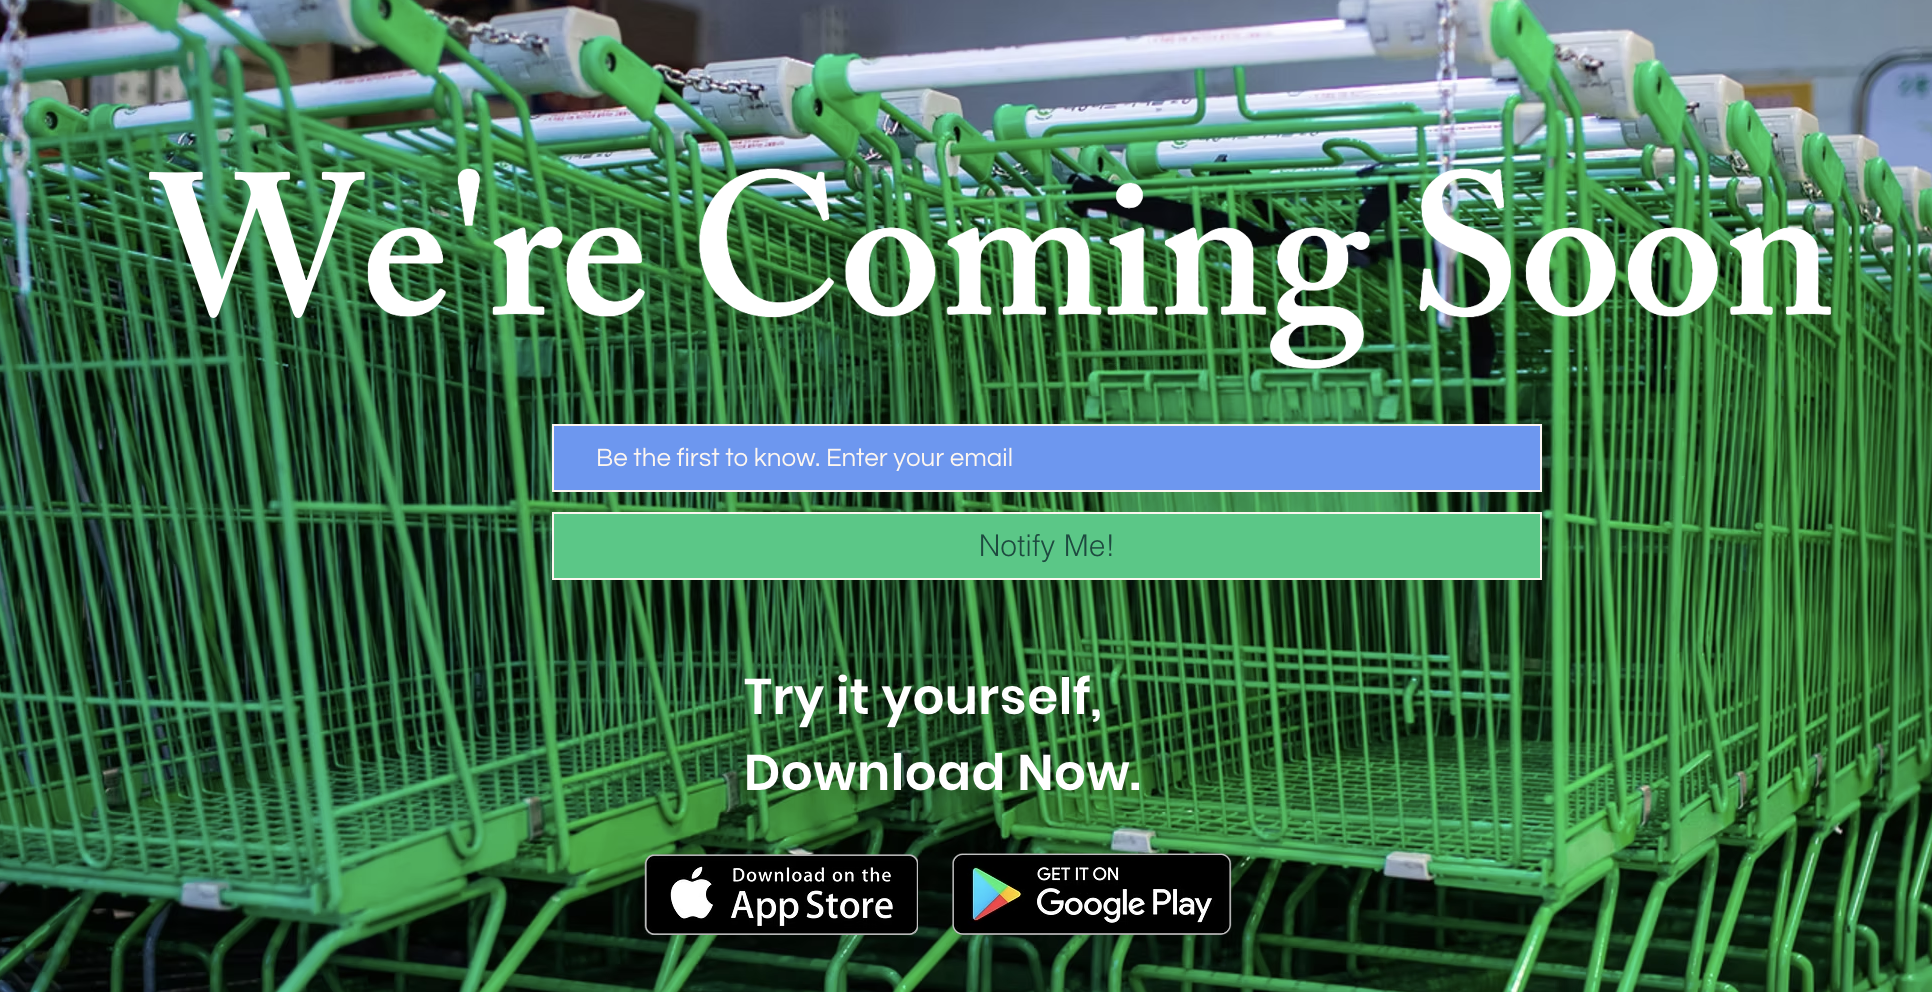
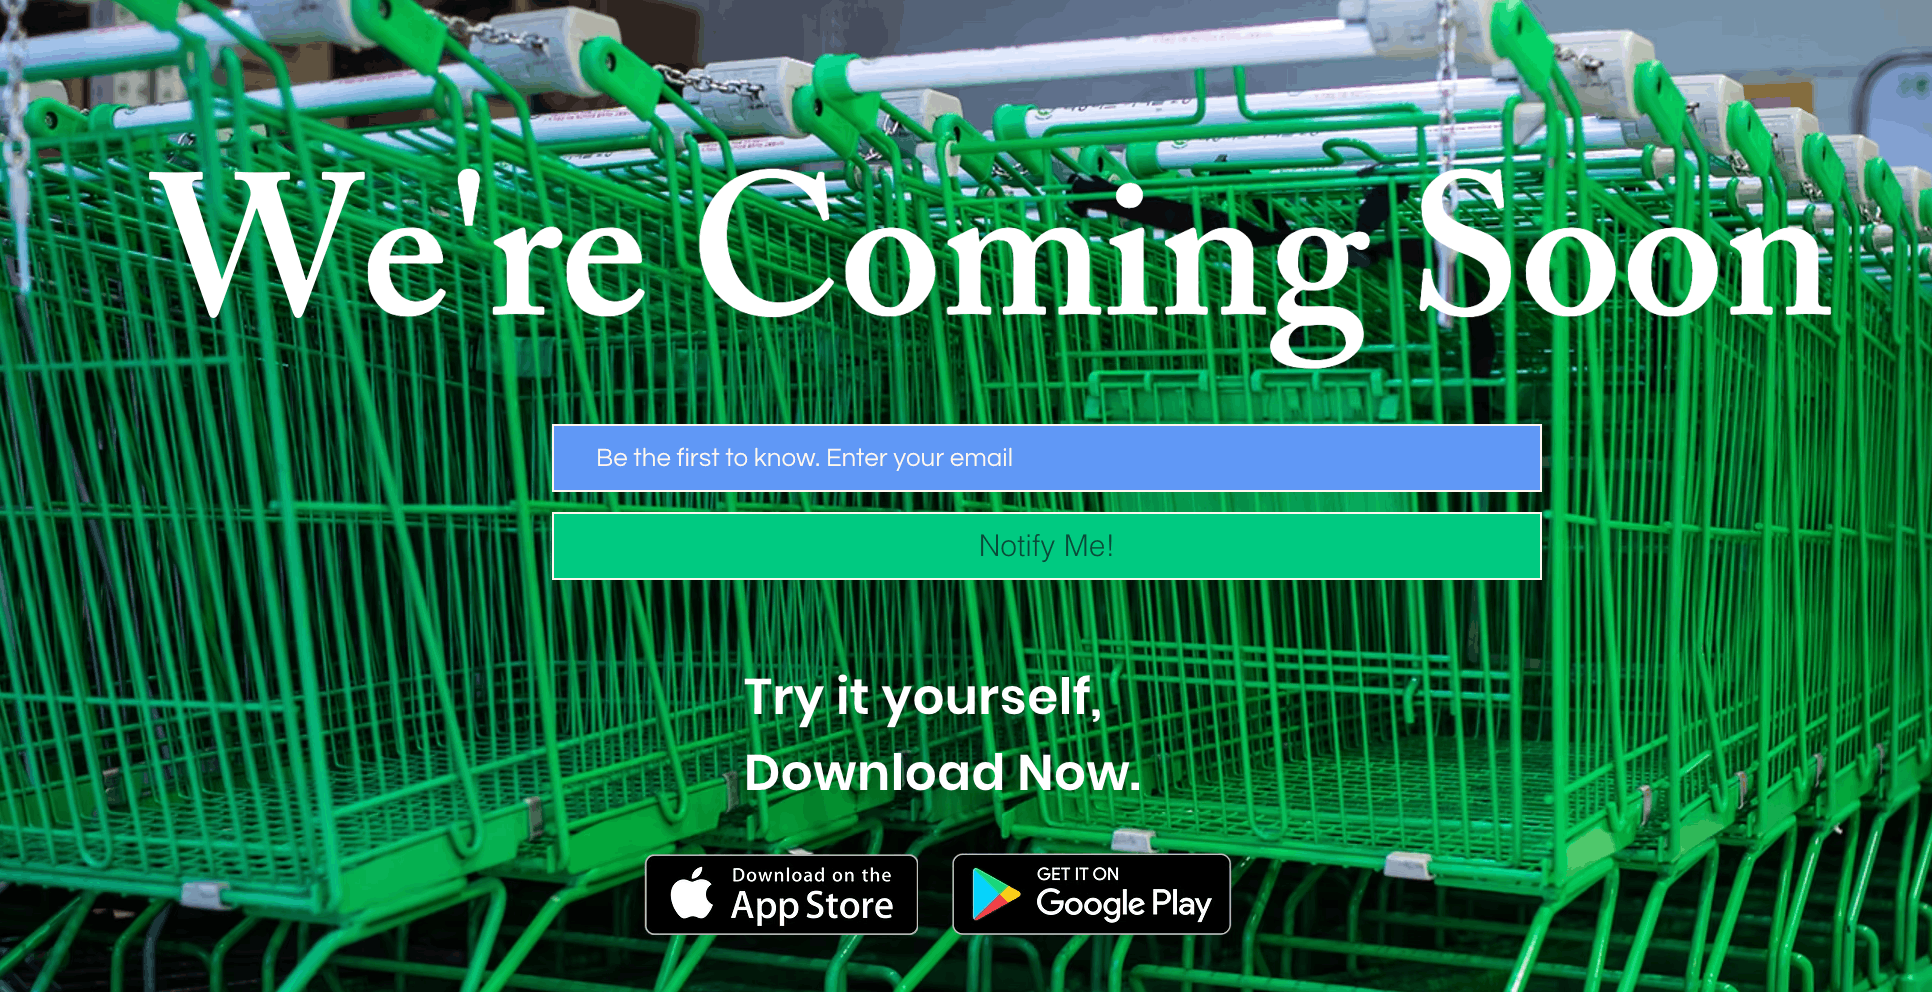
some updates, fix bugs

diff --git a/src/app/[locale]/const.ts b/src/app/[locale]/const.ts
@@ -262,6 +262,43 @@ export const projectsData = [
     },
     {
         id: "8",
+        title: "Familifood",
+        description: "Familifood.description",
+        image: "/example/images/familifood1.png",
+        aboutContent: "Familifood.info",
+        media: [
+            {
+                id: "1",
+                path: "/example/images/familifood1.png",
+            },
+            {
+                id: "2",
+                path: "/example/images/familifood2.png",
+            },
+            {
+                id: "3",
+                path: "/example/images/familifood3.png",
+            },
+            {
+                id: "4",
+                path: "/example/images/familifood4.png",
+            },
+            {
+                id: "5",
+                path: "/example/images/familifood5.png",
+            },
+            {
+                id: "6",
+                path: "/example/images/familifood6.png",
+            },
+            {
+                id: "7",
+                path: "/example/images/familifood7.png",
+            },
+        ],
+    },
+    {
+        id: "9",
         title: "Lumm",
         description: "Lumm.description",
         image: "/images/lumm.png",
@@ -274,8 +311,8 @@ export const projectsData = [
         ],
     },
     {
-        id: "9",
-        title: "Viround (mobile)",
+        id: "10",
+        title: "Viround",
         description: "Viround_m.description",
         image: "/images/viround.png",
         aboutContent: "Viround_m.info",
@@ -315,19 +352,6 @@ export const projectsData = [
             {
                 id: "9",
                 path: "/example/images/viround9.png",
-            },
-        ],
-    },
-    {
-        id: "10",
-        title: "Viround (web)",
-        description: "Viround_w.description",
-        image: "/example/images/viroundweb1.png",
-        aboutContent: "Viround_w.info",
-        media: [
-            {
-                id: "1",
-                path: "/example/images/viroundweb1.png",
             },
         ],
     },

diff --git a/src/config/site.ts b/src/config/site.ts
@@ -52,8 +52,8 @@ export const siteConfig = {
         linkedIn: "https://www.linkedin.com/in/evgeniy-chepurnoy/",
         telegram: "https://t.me/evg_9",
         mail: "mailto:lofmty@gmail.com",
-        cv: "https://drive.google.com/file/d/1Ztt6FnJIfCC3z1halzsDF1XcDWLevlQR/view?pli=1",
+        cv: "https://drive.google.com/file/d/1fU2SS593-YWc2MOKJyvlWlveAGnNjEkk/view",
         cvDownload:
-            "https://drive.usercontent.google.com/u/0/uc?id=1Ztt6FnJIfCC3z1halzsDF1XcDWLevlQR&export=download",
+            "https://drive.usercontent.google.com/download?id=1fU2SS593-YWc2MOKJyvlWlveAGnNjEkk&export=download",
     },
 }

diff --git a/src/app/[locale]/(components)/Tools.tsx b/src/app/[locale]/(components)/Tools.tsx
@@ -262,6 +262,7 @@ export const Tools = ({
                         </Code>
                         <Code color="success">react-native-uuid</Code>
                         <Code color="success">subscriptions-transport-ws</Code>
+                        <Code color="success">callstack/liquid-glass</Code>
                     </div>
                 </AccordionItem>
                 <AccordionItem
